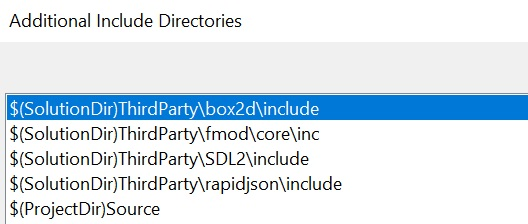
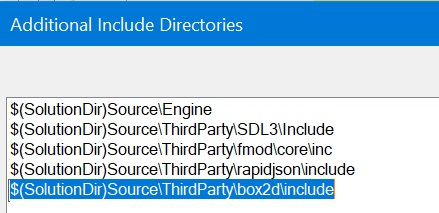
update box2d setup

diff --git a/_posts/GameDev-CPP/2024-08-17-gamedev-cpp-box2d.md b/_posts/GameDev-CPP/2024-08-17-gamedev-cpp-box2d.md
@@ -25,30 +25,30 @@ _This guide will provide step-by-step instructions on how to add Box2D to a Visu
 </div>
 
 ### Download Box2D ###
-+ Download the code for **Box2D** [https://box2d.org/](https://box2d.org/)
-  + Click on the **GitHub** icon
++ Download the code for **Box2D** [https://box2d.org/](https://box2d.org/).
+  + Click on the **GitHub** icon.
 <div align="left">
 <img src="box2d-github-link.jpg" alt="Download" width="45%"/>
 </div>
 
-  + Click on the **Box2D** repository (repo for short)
+  + Click on the **Box2D** repository (repo for short).
 <div align="left">
 <img src="box2d-github-repo.jpg" alt="Repo" width="45%"/>
 </div>
 
-  + Click on **Code** and **Download ZIP**
+  + Click on **Code** and **Download ZIP**.
 <div align="left">
 <img src="box2d-github-download.jpg" alt="Download Zip" width="50%"/>
 </div>
    
-+ Move the **box2d-main.zip** file into the **ThirdParty** folder
-+ Unzip the **box2d-main.zip** file
++ Move the **box2d-main.zip** file into the **ThirdParty** folder.
++ Unzip the **box2d-main.zip** file.
 <div align="left">
 <img src="box2d-zip.jpg" alt="Zip" width="70%"/>
 </div>
 
-+ Rename the **box2d-main** folder to **box2d**
-+ Delete the **box2d-main.zip** file after unzipping, it is no longer needed
++ Rename the **box2d-main** folder to **box2d**.
++ Delete the **box2d-main.zip** file after unzipping, it is no longer needed.
 <div align="left">
 <img src="box2d-folder.jpg" alt="Folder" width="70%"/>
 </div>
@@ -67,12 +67,12 @@ The build instructions are in the **Building** section on the **Box2D GitHub** p
 #### Install CMake ####
 _CMake is a tool to create the build environment for a project. It is used to package a project and then create the project files for the build environment (Visual Studio) and platform (Windows/Linux)._
 
-+ Download the latest release of **CMake**: [https://cmake.org/](https://cmake.org/)
++ Download the latest release of **CMake**: [https://cmake.org/](https://cmake.org/).
 <div align="left">
 <img src="box2d-cmake-download.jpg" alt="CMake Download" width="70%"/>
 </div>
 
-+ Run the downloaded file to install **CMake**
++ Run the downloaded file to install **CMake**.
 <div align="left">
 <img src="box2d-cmake-install.jpg" alt="CMake Install" width="70%"/>
 </div>
@@ -80,16 +80,16 @@ _CMake is a tool to create the build environment for a project. It is used to pa
 <img src="box2d-cmake-installer.jpg" alt="CMake Installer" width="50%"/>
 </div>
 
-+ Make sure to enable **Add CMake to the PATH environment variable**
-  + This will make include the **CMake** directory in the **PATH** allowing **CMake** to be run from anywhere on the computer
++ Make sure to enable **Add CMake to the PATH environment variable**.
+  + This will make include the **CMake** directory in the **PATH** allowing **CMake** to be run from anywhere on the computer.
 <div align="left">
 <img src="box2d-cmake-path.jpg" alt="CMake Path" width="50%"/>
 </div>
 
 #### Build Box2D ####
 
-+ Run the **Build.bat** in the extracted box2d-main folder
-  + This is a _batch file_ and will run a set of commands to build the **Box 2D Visual Studio Solution** using **CMake**
++ Run the **create_sln.bat** in the extracted box2d folder.
+  + This is a _batch file_ and will run a set of commands to build the **Box 2D Visual Studio Solution** using **CMake**.
 
 <div align="left">
 <img src="box2d-cmake-build.jpg" alt="Box2D Build" width="60%"/>
@@ -99,21 +99,29 @@ _CMake is a tool to create the build environment for a project. It is used to pa
 </div>
 
 #### Run Box2D ####
-+ Once the build is complete, **Visual Studio** will be launched with the **Box2D** solution
++ Once the build is complete, a **Visual Studio Solution** (.sln) file will be located in the **build** folder. 
+
+<div align="left">
+<img src="box2d-sln-folder.jpg" alt="Box2D Solution Folder" width="60%"/>
+</div>
+
++ Open the **Box2D Solution** (.sln) file (double-click).
+
 <div align="left">
 <img src="box2d-solution-explorer.jpg" alt="Box2D Solution Explorer" width="60%"/>
 </div>
 
-+ Build and Run the **Box2D  samples** project
++ Build and Run the **Box2D samples** project.
 <div align="left">
 <img src="box2d-program.jpg" alt="Box2D Program" width="75%"/>
 </div>
 
-+ Run some of the **tests** to see the different features and functionality of **Box2D**
++ Run some of the **tests** to see the different features and functionality of **Box2D**.
 <div align="left">
 <img src="box2d-tests.jpg" alt="Box2D Tests" width="60%"/>
 </div>
 <br>
+
 > Save a screenshot of **Box2D** running in **Visual Studio** as it will be required for the submission of the assignment.
 {: .prompt-tip }
 
@@ -132,17 +140,17 @@ _CMake is a tool to create the build environment for a project. It is used to pa
 
 + Add the directory of the **Box2D** include folder to the **Additional Include Directories**.
   + **Additional Include Directories** is located in **C/C++>General**.
-  + Add ```$(SolutionDir)ThirdParty\box2d\include```
+  + Add ```$(SolutionDir)Source\ThirdParty\box2d\include```
 
 ```
-$(SolutionDir)ThirdParty\box2d\include
+$(SolutionDir)Source\ThirdParty\box2d\include
 ```
 <div align="left">
 <img src="box2d-include.jpg" alt="Include" width="75%"/>
 </div>
 
 #### Add Box2D Library Directories and Library (.lib)
-> The Box2D Library Directories and Library (.lib) only need to be completed on the project that is the application (Game). Do not perform the steps with the library project (Engine). If it is done on both, there will be a warning reported when built.
+> The Box2D Library Directories and Library (.lib) only needs to be completed on the project that is the application (Game). Do not perform the library steps with the library project (Engine). If it is done on both, there will be a warning reported when built.
 {: .prompt-warning }
 
 + In the **box2d** directory in **ThirdParty** create a folder called "lib"
@@ -152,18 +160,18 @@ $(SolutionDir)ThirdParty\box2d\include
 </div>
 
 + To make it easier to find, the box2d.lib will be copied to the new **lib** directory
-  + Go to the ```ThirdParty\box2d\build\src\Debug``` folder and copy the ```box2d.lib``` and ```box2d.pdb``` to the ```ThirdParty\box2d\lib``` folder
+  + Go to the ```ThirdParty\box2d\build\src\Debug``` folder and copy the ```box2dd.lib``` and ```box2dd.pdb``` to the ```ThirdParty\box2d\lib``` folder
 <div align="left">
-<img src="box2d-build-lib.jpg" alt="Library" width="90%"/>
-<img src="box2d-lib-dir-lib.jpg" alt="Library" width="90%"/>
+<img src="box2d-build-lib.jpg" alt="Library" width="55%"/>
+<img src="box2d-lib-dir-lib.jpg" alt="Library" width="55%"/>
 </div>
 
 + Add the directory of the **Box2D** library folder in **Project Properties**
-  + **Additional Library Directories** is located in **Librarian>General** or **Linker>Input**
-  + Add ```$(SolutionDir)ThirdParty\box2d\lib```
+  + **Additional Library Directories** is located in **Linker>General**.
+  + Add ```$(SolutionDir)Source\ThirdParty\box2d\lib```
 
 ```
-$(SolutionDir)ThirdParty\box2d\lib
+$(SolutionDir)Source\ThirdParty\box2d\lib
 ```
 <div align="left">
 <img src="box2d-library.jpg" alt="Library" width="70%"/>
@@ -171,11 +179,11 @@ $(SolutionDir)ThirdParty\box2d\lib
  <br> 
 
 + Add the **Box2D** .lib files that the project needs to function
-  + **Additional Dependencies** is located in **Librarian>General** or **Linker>General**
-  + Add ```box2d.lib```
+  + **Additional Dependencies** is located in **Linker>Input**.
+  + Add ```box2dd.lib```
 
 ```
-box2d.lib
+box2dd.lib
 ```
 <div align="left">
 <img src="box2d-lib.jpg" alt="Lib" width="70%"/>
@@ -187,9 +195,9 @@ box2d.lib
 <img src="box2d-physics-filter.jpg" alt="Lib" width="70%"/>
 </div>
 
-+ Add a ```Physics.h``` header and ```Physics.cpp``` source file in the ```Engine\Source\Physics``` folder
++ Add a ```Physics.h``` header and ```Physics.cpp``` source file in the ```Engine\Physics``` folder
 <div align="left">
-<img src="box2d-physics-h.jpg" alt="Lib" width="80%"/>
+<img src="box2d-physics-h.jpg" alt="Lib" width="85%"/>
 </div>
 <div align="left">
 <img src="box2d-physics-files.jpg" alt="Lib" width="70%"/>
@@ -202,19 +210,20 @@ box2d.lib
 #include <box2d/box2d.h>
 #include <memory>
 
-class Physics
-{
-public:
-	Physics() = default;
+namespace <namespace name> {
+	class Physics {
+	public:
+		Physics() = default;
 
-	bool Initialize();
-	void Shutdown();
+		bool Initialize();
+		void Shutdown();
 
-	void Update(float dt);
+		void Update(float dt);
 
-private:
-	b2WorldId m_worldId;
-};
+	private:
+		b2WorldId m_worldId;
+	};
+}
 ```
 
 #### Physics.cpp ####
@@ -223,44 +232,56 @@ private:
 ```
 #include "Physics.h"
 
-bool Physics::Initialize()
-{
-	b2WorldDef worldDef = b2DefaultWorldDef();
-	worldDef.gravity = b2Vec2{ 0.0f, -10.0f };
-	m_worldId = b2CreateWorld(&worldDef);
+namespace <namespace name> {
+	bool Physics::Initialize() {
+		b2WorldDef worldDef = b2DefaultWorldDef();
+		worldDef.gravity = b2Vec2{ 0.0f, -10.0f };
+		m_worldId = b2CreateWorld(&worldDef);
 
-	return true;
-}
+		return true;
+	}
 
-void Physics::Shutdown()
-{
-	b2DestroyWorld(m_worldId);
-}
+	void Physics::Shutdown() {
+		b2DestroyWorld(m_worldId);
+	}
 
-void Physics::Update(float dt)
-{
-	b2World_Step(m_worldId, 1.0f / 60.0f, 4);
+	void Physics::Update(float dt) {
+		b2World_Step(m_worldId, 1.0f / 60.0f, 4);
+	}
 }
 ```
 
 ### Add Physics to the Engine ###
-+ In the ```Engine.h``` header include the ```Physics.h``` header
-+ Add the **Physics** class to the **Engine** class and create an accessor method
++ Place the code around the similar code. For example, place the accessor method with the other accessor methods and the variable with the other variables. Keep it organized.
 
++ In the ```Engine.h``` header include the ```Physics.h``` header.
+```
+#include "Physics/Physics.h"
+```
+
++ Add a **Physics** accessor method.
 ```
 Physics& GetPhysics() { return *m_physics; }
+```
 
++ Add a **Physics** variable.
+```
 std::unique_ptr<Physics> m_physics;
 ```
 
-+ In the ```Engine.cpp``` source file, create, initialize, shutdown and update the **Physics** class
++ In the ```Engine.cpp``` source file; create and initialize, shutdown and update the **Physics** class.
 
 ```
 m_physics = std::make_unique<Physics>();
-
 m_physics->Initialize();
-
-m_physics->Shutdown();
-
-m_physics->Update(m_time->GetDeltaTime());
 ```
+
+```
+m_physics->Shutdown();
+```
+
+```
+m_physics->Update(m_time.GetDeltaTime());
+```
+
+Build and run the application. There should be no warnings or errors. The physics will be added to the objects in an upcoming lesson. 
